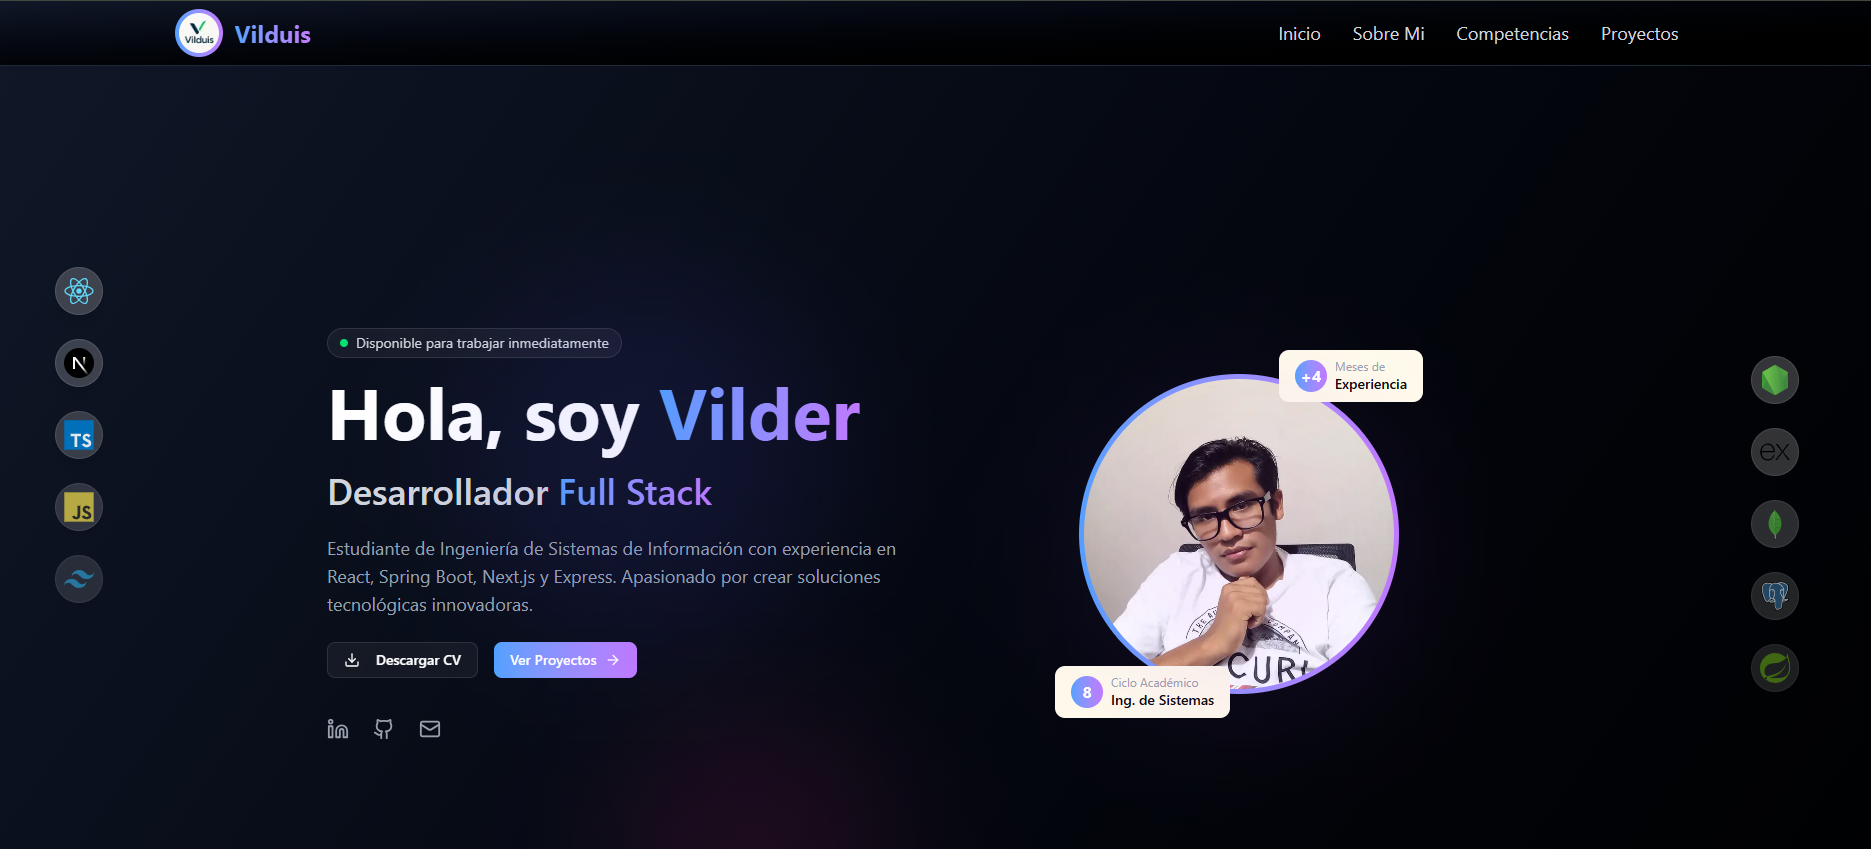
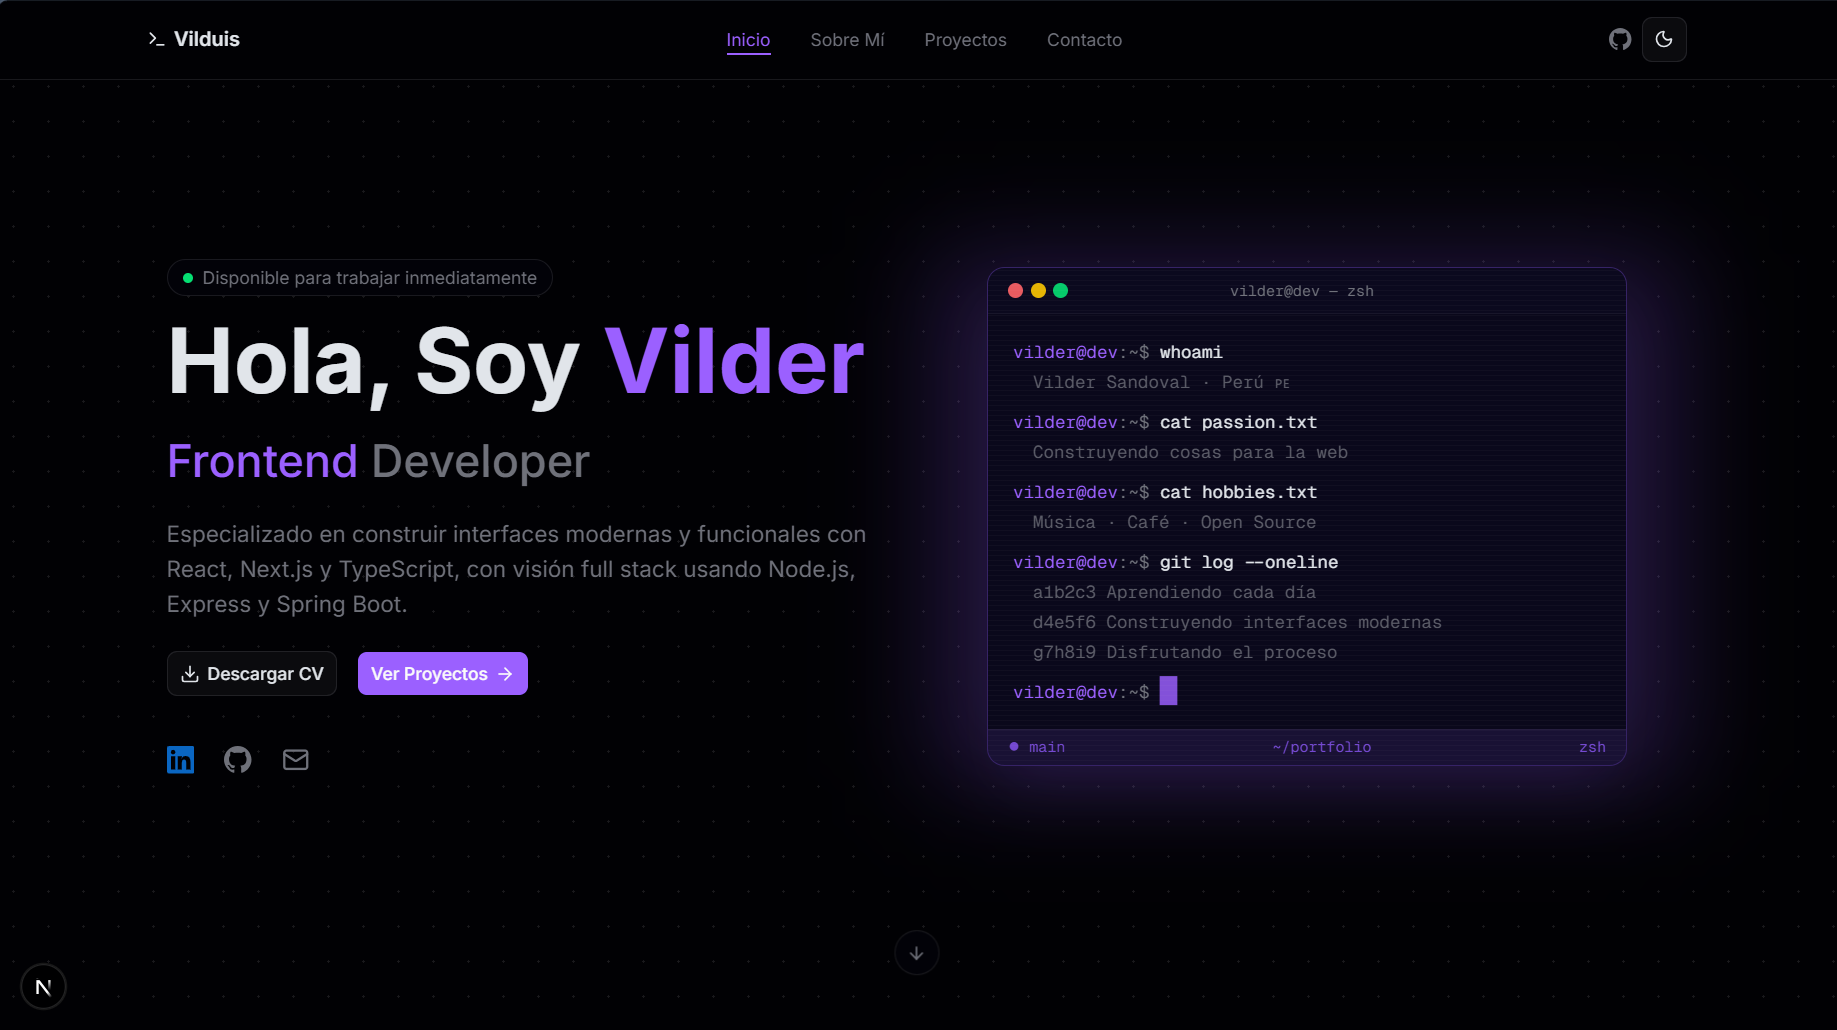
Added new things

diff --git a/app/layout.tsx b/app/layout.tsx
@@ -9,9 +9,56 @@ import Navbar from "@/components/layout/navbar"
 import Footer from "@/components/layout/footer"
 import { DotGrid } from "@/components/shared/dot-grid"
 
+const BASE_URL = "https://vilduis.com/"
+
 export const metadata: Metadata = {
-  title: "Vilder Sandoval — Portfolio",
-  description: "Desarrollador web fullstack | React, Next.js, TypeScript",
+  metadataBase: new URL(BASE_URL),
+  title: {
+    default: "Vilder Sandoval — Frontend Developer",
+    template: "%s | Vilder Sandoval",
+  },
+  description:
+    "Frontend Developer especializado en React, Next.js y TypeScript con visión full stack. Basado en Lima, Perú.",
+  keywords: [
+    "Frontend Developer",
+    "React",
+    "Next.js",
+    "TypeScript",
+    "TailwindCSS",
+    "Vilder Sandoval",
+    "Portfolio",
+    "Full Stack",
+    "Lima",
+    "Perú",
+  ],
+  authors: [{ name: "Vilder Sandoval", url: BASE_URL }],
+  creator: "Vilder Sandoval",
+  openGraph: {
+    type: "website",
+    locale: "es_PE",
+    url: BASE_URL,
+    siteName: "Vilder Sandoval",
+    title: "Vilder Sandoval — Frontend Developer",
+    description:
+      "Frontend Developer especializado en React, Next.js y TypeScript con visión full stack. Basado en Lima, Perú.",
+  },
+  twitter: {
+    card: "summary_large_image",
+    title: "Vilder Sandoval — Frontend Developer",
+    description:
+      "Frontend Developer especializado en React, Next.js y TypeScript con visión full stack. Basado en Lima, Perú.",
+  },
+  robots: {
+    index: true,
+    follow: true,
+    googleBot: {
+      index: true,
+      follow: true,
+      "max-video-preview": -1,
+      "max-image-preview": "large",
+      "max-snippet": -1,
+    },
+  },
 }
 
 const inter = Inter({ subsets: ["latin"], variable: "--font-sans" })
@@ -38,6 +85,40 @@ export default function RootLayout({
       )}
     >
       <body>
+        <script
+          type="application/ld+json"
+          dangerouslySetInnerHTML={{
+            __html: JSON.stringify({
+              "@context": "https://schema.org",
+              "@type": "Person",
+              name: "Vilder Sandoval",
+              url: BASE_URL,
+              jobTitle: "Frontend Developer",
+              description:
+                "Frontend Developer especializado en React, Next.js y TypeScript con visión full stack.",
+              address: {
+                "@type": "PostalAddress",
+                addressLocality: "Lima",
+                addressCountry: "PE",
+              },
+              sameAs: [
+                "https://linkedin.com/in/vilder-sandoval",
+                "https://github.com/Vilduis",
+              ],
+              knowsAbout: [
+                "React",
+                "Next.js",
+                "TypeScript",
+                "TailwindCSS",
+                "Node.js",
+                "Express",
+                "Spring Boot",
+                "FastAPI",
+                "PostgreSQL",
+              ],
+            }),
+          }}
+        />
         <ThemeProvider>
           <TooltipProvider>
             <DotGrid />

diff --git a/data/projects.ts b/data/projects.ts
@@ -6,7 +6,6 @@ import BackWorkshop from "../assets/BackWorkshop.png"
 import BackKairos from "../assets/BackKairos.png"
 import Simulacredit from "../assets/SimulaCredit.png"
 import CVSanius from "../assets/CVSanius.png"
-import LiriAI from "../assets/LiriAI.png"
 import Workshop from "../assets/Workshop.png"
 import Kairos from "../assets/Kairos.png"
 import BackCodeJourney from "../assets/BackCodeJourney.png"
@@ -89,7 +88,7 @@ export const personalProjects: Project[] = [
     technologies: ["Nextjs", "TypeScript", "TailwindCSS", "Shadcnui", "Resend"],
     image: Portfolio1,
     description:
-      "Mi portafolio personal construido con Next.js, Tailwind CSS, TypeScript y Framer Motion.",
+      "Portafolio personal con diseño dark mode, dot grid animado, terminal interactiva en el hero y animaciones fluidas con Motion. Construido con Next.js, TypeScript, Tailwind CSS y Shadcn/UI. Incluye formulario de contacto con Resend.",
     github: "https://github.com/Vilduis/my-portfolio",
     demo: "https://vilduis.vercel.app/",
     category: "frontend",
@@ -107,17 +106,6 @@ export const personalProjects: Project[] = [
   },
   {
     id: 9,
-    name: "Liriai",
-    technologies: ["React", "TypeScript", "TailwindCSS", "Vite"],
-    image: LiriAI,
-    description:
-      "Aplicación web que usa Google Gemini para crear poemas y frases a partir de una idea o sentimiento, y redactar respuestas a mensajes con distintos tonos y formatos.",
-    github: "https://github.com/Vilduis/LiriAI",
-    demo: "https://liriai.netlify.app/",
-    category: "frontend",
-  },
-  {
-    id: 10,
     name: "Kairos API",
     technologies: ["FastAPI", "PostgreSQL", "JWT"],
     image: BackKairos,
@@ -128,7 +116,7 @@ export const personalProjects: Project[] = [
     category: "backend",
   },
   {
-    id: 11,
+    id: 10,
     name: "Workshop API",
     technologies: ["Spring", "JWT", "PostgreSQL", "Neon"],
     image: BackWorkshop,
@@ -139,7 +127,7 @@ export const personalProjects: Project[] = [
     category: "backend",
   },
   {
-    id: 12,
+    id: 11,
     name: "CodeJourney API",
     technologies: ["Nodejs", "Expressjs", "JavaScript", "MongoDB", "JWT"],
     image: BackCodeJourney,

diff --git a/app/sitemap.ts b/app/sitemap.ts
@@ -1,0 +1,32 @@
+import type { MetadataRoute } from "next"
+
+const BASE_URL = "https://vilduis.com"
+
+export default function sitemap(): MetadataRoute.Sitemap {
+  return [
+    {
+      url: `${BASE_URL}/`,
+      lastModified: new Date(),
+      changeFrequency: "monthly",
+      priority: 1,
+    },
+    {
+      url: `${BASE_URL}/about`,
+      lastModified: new Date(),
+      changeFrequency: "monthly",
+      priority: 0.8,
+    },
+    {
+      url: `${BASE_URL}/project`,
+      lastModified: new Date(),
+      changeFrequency: "monthly",
+      priority: 0.8,
+    },
+    {
+      url: `${BASE_URL}/contact`,
+      lastModified: new Date(),
+      changeFrequency: "yearly",
+      priority: 0.5,
+    },
+  ]
+}

diff --git a/app/about/page.tsx b/app/about/page.tsx
@@ -1,4 +1,11 @@
+import type { Metadata } from "next"
 import About from "@/components/sections/about"
+
+export const metadata: Metadata = {
+  title: "Sobre mí",
+  description:
+    "Conoce mi historia, las tecnologías que uso y mi experiencia profesional como Frontend Developer.",
+}
 import Technology from "@/components/sections/technology"
 import ExperienceEducation from "@/components/sections/experience-education"
 

diff --git a/app/project/layout.tsx b/app/project/layout.tsx
@@ -1,0 +1,15 @@
+import type { Metadata } from "next"
+
+export const metadata: Metadata = {
+  title: "Proyectos",
+  description:
+    "Proyectos que construí con React, Next.js, TypeScript y más. Desde plataformas fullstack con IA hasta APIs REST.",
+}
+
+export default function ProjectLayout({
+  children,
+}: {
+  children: React.ReactNode
+}) {
+  return children
+}

diff --git a/app/contact/layout.tsx b/app/contact/layout.tsx
@@ -1,0 +1,15 @@
+import type { Metadata } from "next"
+
+export const metadata: Metadata = {
+  title: "Contacto",
+  description:
+    "¿Tienes una propuesta o proyecto? Estoy disponible para nuevas oportunidades como Frontend Developer.",
+}
+
+export default function ContactLayout({
+  children,
+}: {
+  children: React.ReactNode
+}) {
+  return children
+}

diff --git a/app/robots.ts b/app/robots.ts
@@ -1,0 +1,11 @@
+import type { MetadataRoute } from "next"
+
+export default function robots(): MetadataRoute.Robots {
+  return {
+    rules: {
+      userAgent: "*",
+      allow: "/",
+    },
+    sitemap: "https://vilduis.com/sitemap.xml",
+  }
+}
